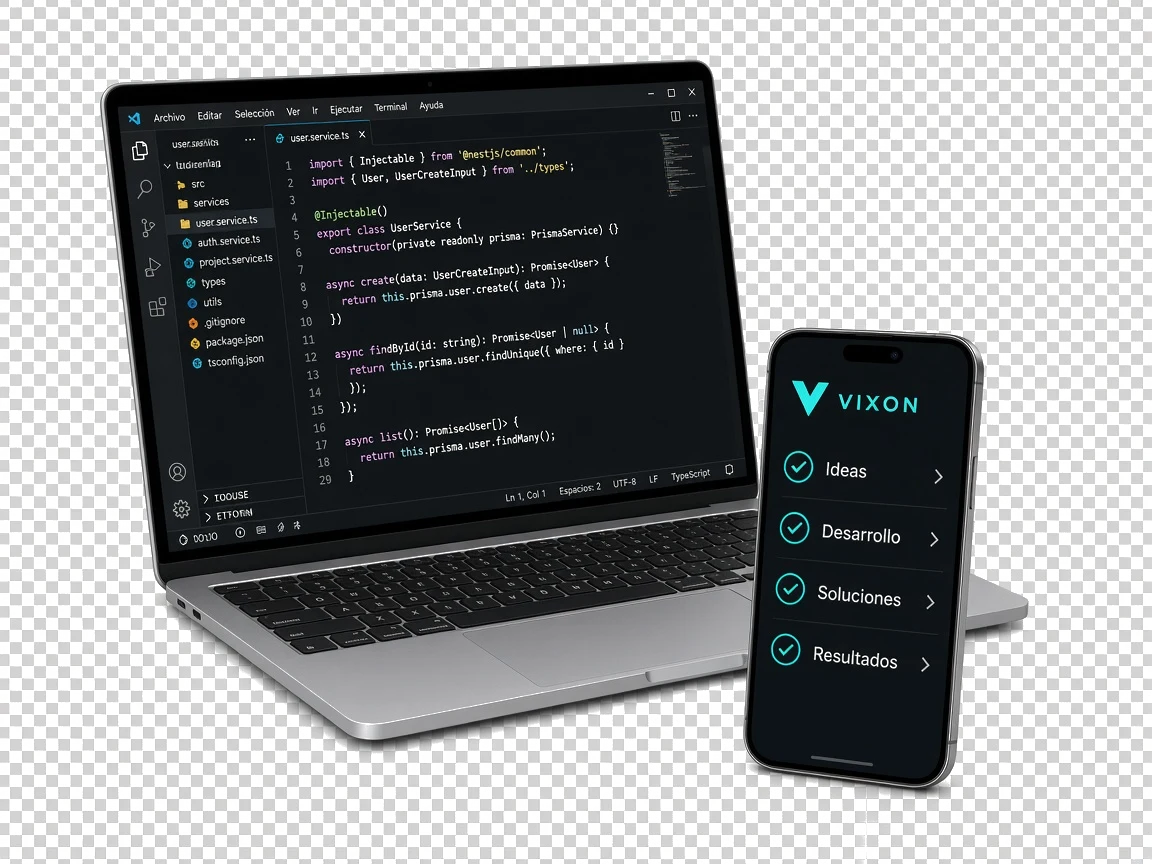
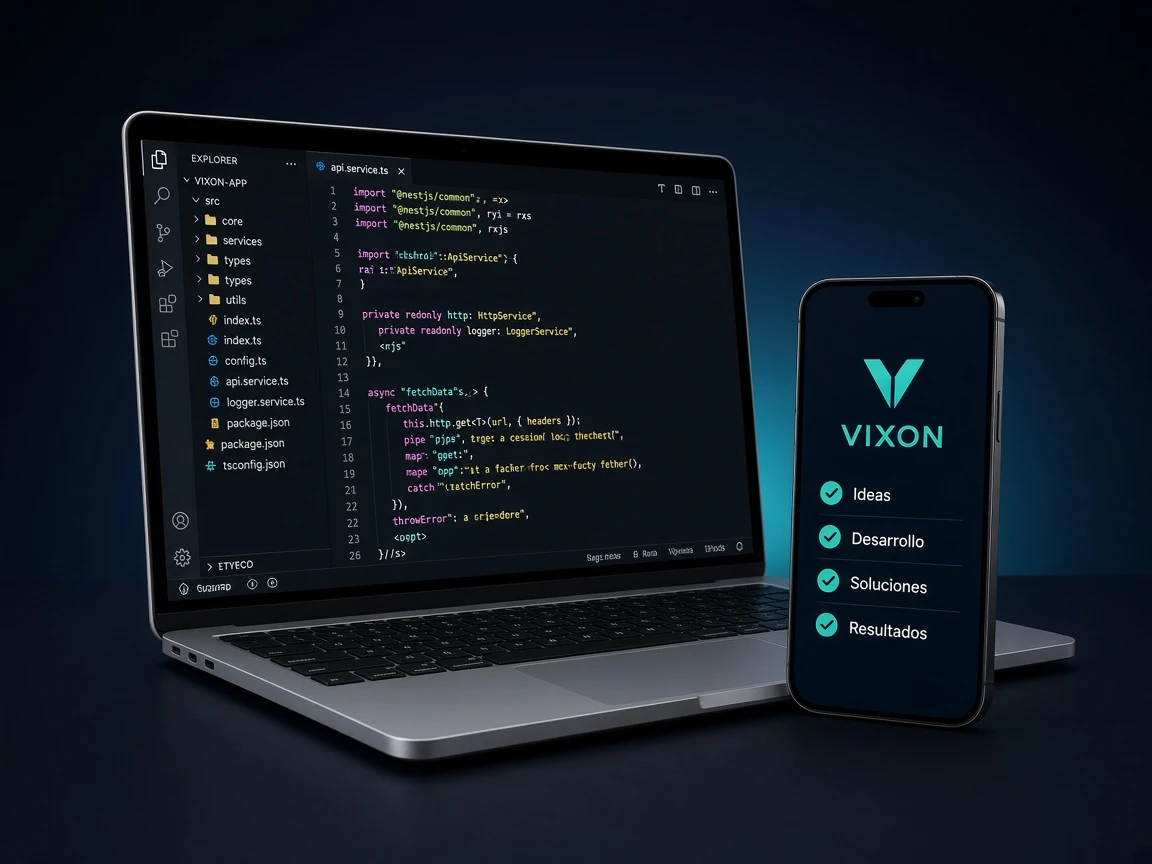
Match pillars visuals and layout to reference mock (ss2).

diff --git a/src/components/home/service-pillars.tsx b/src/components/home/service-pillars.tsx
@@ -16,6 +16,7 @@ import {
   Settings,
   ShieldCheck,
   Sparkles,
+  TrendingUp,
   Users,
 } from "lucide-react";
 import { Reveal } from "@/components/motion/reveal";
@@ -40,7 +41,8 @@ const iconMap = {
   pie: PieChart,
   cog: Settings,
 } as const satisfies Record<
-  (typeof softwarePillarItems)[number]["icon"] | (typeof marketingPillarItems)[number]["icon"],
+  | (typeof softwarePillarItems)[number]["icon"]
+  | (typeof marketingPillarItems)[number]["icon"],
   LucideIcon
 >;
 
@@ -48,36 +50,35 @@ export function ServicePillars() {
   return (
     <Section className="relative overflow-hidden">
       <div aria-hidden className="pointer-events-none absolute inset-0 -z-10">
-        <div className="absolute top-10 left-1/2 h-80 w-[46rem] -translate-x-1/2 rounded-full bg-brand/14 blur-[110px]" />
-        <div className="absolute right-[6%] bottom-16 h-64 w-64 rounded-full bg-brand/10 blur-[90px]" />
-        <div className="absolute bottom-32 left-[10%] h-52 w-52 rounded-full bg-brand/8 blur-[80px]" />
+        <div className="absolute top-8 left-1/2 h-72 w-[42rem] -translate-x-1/2 rounded-full bg-brand/12 blur-[110px]" />
+        <div className="absolute right-[8%] bottom-20 h-56 w-56 rounded-full bg-brand/10 blur-[90px]" />
       </div>
 
       <Container>
-        <div className="grid items-start gap-8 lg:grid-cols-[1.15fr_0.85fr] lg:gap-12">
+        <div className="grid items-end gap-8 lg:grid-cols-[minmax(0,1.2fr)_minmax(0,0.8fr)] lg:gap-14">
           <Reveal>
             <p className="inline-flex items-center gap-2 text-xs font-semibold tracking-[0.22em] text-brand uppercase">
-              <Sparkles className="size-3.5" aria-hidden />
+              <Sparkles className="size-3.5 fill-brand/30" aria-hidden />
               Nuestros pilares
             </p>
-            <h2 className="mt-4 max-w-xl text-3xl font-semibold tracking-tight text-balance md:text-4xl lg:text-[2.55rem] lg:leading-[1.15]">
+            <h2 className="mt-4 max-w-2xl text-3xl font-semibold tracking-tight text-balance md:text-4xl lg:text-[2.6rem] lg:leading-[1.12]">
               Dos áreas, un mismo objetivo:{" "}
               <span className="text-brand">tu crecimiento.</span>
             </h2>
           </Reveal>
 
-          <Reveal delay={80}>
-            <p className="border-l border-brand/45 pl-5 text-sm leading-relaxed text-muted-foreground md:pl-6 md:text-[0.95rem] lg:mt-10">
+          <Reveal delay={70}>
+            <p className="border-l-2 border-brand/50 pl-5 text-sm leading-relaxed text-foreground/80 md:text-[0.95rem]">
               Combinamos tecnología y marketing para ofrecer soluciones
               integrales que impulsan tu negocio{" "}
-              <span className="font-medium text-foreground">
+              <span className="font-semibold text-foreground">
                 desde la idea hasta los resultados.
               </span>
             </p>
           </Reveal>
         </div>
 
-        <div className="mt-12 grid gap-6 lg:mt-14 lg:grid-cols-2">
+        <div className="mt-12 grid gap-5 lg:mt-14 lg:grid-cols-2 lg:gap-6">
           <Reveal delay={40}>
             <PillarCard
               label="Tecnología & desarrollo"
@@ -95,7 +96,7 @@ export function ServicePillars() {
             />
           </Reveal>
 
-          <Reveal delay={120}>
+          <Reveal delay={110}>
             <PillarCard
               label="Marketing, growth & diseño"
               title={
@@ -139,41 +140,45 @@ function PillarCard({
   visual: ReactNode;
 }) {
   return (
-    <article className="group relative flex h-full flex-col overflow-hidden rounded-[1.75rem] bg-surface/75 p-6 shadow-[0_0_0_1px_rgb(0_163_173_/_0.18),0_28px_80px_-36px_rgb(0_163_173_/_0.45)] ring-1 ring-brand/25 backdrop-blur-md transition-transform duration-500 ease-out-expo hover:-translate-y-1 sm:p-8">
+    <article className="relative flex h-full flex-col overflow-hidden rounded-[1.6rem] bg-[#0c1422] p-6 ring-1 ring-brand/30 shadow-[0_0_60px_-28px_rgb(0_163_173_/_0.55)] sm:p-7 lg:p-8">
       <div
         aria-hidden
-        className="pointer-events-none absolute -top-24 -right-20 size-64 rounded-full bg-brand/16 blur-3xl"
+        className="pointer-events-none absolute inset-x-8 bottom-0 h-24 bg-linear-to-t from-brand/15 to-transparent"
+      />
+      <div
+        aria-hidden
+        className="pointer-events-none absolute -top-28 -right-16 size-72 rounded-full bg-brand/12 blur-3xl"
       />
 
-      <div className="relative grid flex-1 gap-8 xl:grid-cols-[1.05fr_0.95fr] xl:items-center">
+      <div className="relative grid flex-1 gap-6 lg:grid-cols-[minmax(0,1fr)_minmax(11rem,0.92fr)] lg:items-stretch lg:gap-4 xl:gap-6">
         <div className="flex min-w-0 flex-col">
-          <p className="text-[0.65rem] font-semibold tracking-[0.18em] text-brand uppercase whitespace-nowrap">
+          <p className="text-[0.62rem] font-semibold tracking-[0.2em] text-brand uppercase sm:text-[0.65rem]">
             {label}
           </p>
-          <h3 className="mt-3 text-2xl font-semibold tracking-tight text-balance md:text-[1.65rem] md:leading-snug">
+          <h3 className="mt-3 text-[1.35rem] font-semibold tracking-tight text-balance sm:text-2xl lg:text-[1.55rem] lg:leading-snug">
             {title}
           </h3>
-          <p className="mt-3 text-sm leading-relaxed text-muted-foreground">
+          <p className="mt-3 text-[0.85rem] leading-relaxed text-white/70">
             {description}
           </p>
 
-          <ul className="mt-6 space-y-3.5">
+          <ul className="mt-5 space-y-3">
             {items.map((item) => {
               const Icon = iconMap[item.icon];
               return (
-                <li key={item.title} className="flex gap-3">
-                  <span className="mt-0.5 flex size-10 shrink-0 items-center justify-center rounded-lg ring-1 ring-brand/40">
+                <li key={item.title} className="flex items-start gap-3">
+                  <span className="mt-0.5 flex size-9 shrink-0 items-center justify-center rounded-full border border-brand/55 text-brand sm:size-10">
                     <Icon
-                      className="size-5 text-brand"
-                      strokeWidth={1.6}
+                      className="size-[1.15rem] sm:size-5"
+                      strokeWidth={1.5}
                       aria-hidden
                     />
                   </span>
-                  <div className="min-w-0">
-                    <p className="text-sm font-semibold text-foreground">
+                  <div className="min-w-0 pt-0.5">
+                    <p className="text-[0.9rem] font-semibold text-foreground">
                       {item.title}
                     </p>
-                    <p className="mt-0.5 text-xs leading-relaxed text-muted-foreground">
+                    <p className="mt-0.5 text-[0.72rem] leading-snug text-white/55">
                       {item.detail}
                     </p>
                   </div>
@@ -182,7 +187,7 @@ function PillarCard({
             })}
           </ul>
 
-          <Button asChild className="mt-8 w-fit">
+          <Button asChild className="mt-7 w-fit">
             <Link href={href}>
               {cta}
               <ArrowRight />
@@ -190,7 +195,9 @@ function PillarCard({
           </Button>
         </div>
 
-        {visual}
+        <div className="relative min-h-[15rem] sm:min-h-[17rem] lg:min-h-0">
+          {visual}
+        </div>
       </div>
     </article>
   );
@@ -206,7 +213,7 @@ function GlassChip({
   return (
     <div
       className={cn(
-        "rounded-xl border border-brand/25 bg-[#0b1220]/75 px-2.5 py-1.5 shadow-[0_16px_36px_-22px_rgba(0,163,173,0.55)] backdrop-blur-md",
+        "rounded-lg border border-brand/40 bg-[#0a101c]/80 px-2.5 py-1.5 shadow-[0_12px_28px_-18px_rgb(0_163_173_/_0.7)] backdrop-blur-md",
         className,
       )}
     >
@@ -217,37 +224,29 @@ function GlassChip({
 
 function TechVisual() {
   return (
-    <div className="relative mx-auto h-[16.5rem] w-full max-w-[19rem] sm:h-[18rem] xl:mx-0 xl:max-w-none">
-      <div className="absolute inset-x-0 top-4 bottom-0">
+    <div className="absolute inset-0">
+      <div className="absolute inset-x-[-4%] top-[8%] bottom-[-2%]">
         <Image
           src="/home/pillar-tech-devices.webp"
           alt=""
           fill
-          sizes="(min-width: 1280px) 320px, 300px"
-          className="object-contain object-bottom drop-shadow-[0_24px_40px_rgba(0,0,0,0.45)]"
+          sizes="(min-width: 1024px) 280px, 340px"
+          className="object-contain object-bottom"
           aria-hidden
         />
       </div>
 
-      <GlassChip className="hero-float absolute top-0 left-0 flex items-center gap-1.5">
+      <GlassChip className="hero-float absolute top-[2%] left-[2%] z-10 flex items-center gap-1.5">
         <BarChart3 className="size-3.5 text-brand" aria-hidden />
-        <span className="text-[0.65rem] font-medium text-foreground">
-          Escalable
-        </span>
+        <span className="text-[0.62rem] font-medium text-white">Escalable</span>
       </GlassChip>
-
-      <GlassChip className="hero-float absolute top-10 right-0 flex items-center gap-1.5 [animation-delay:0.55s]">
+      <GlassChip className="hero-float absolute top-[14%] right-[0%] z-10 flex items-center gap-1.5 [animation-delay:0.5s]">
         <ShieldCheck className="size-3.5 text-brand" aria-hidden />
-        <span className="text-[0.65rem] font-medium text-foreground">
-          Seguro
-        </span>
+        <span className="text-[0.62rem] font-medium text-white">Seguro</span>
       </GlassChip>
-
-      <GlassChip className="hero-float absolute top-[5.25rem] left-1 flex items-center gap-1.5 [animation-delay:1.1s]">
+      <GlassChip className="hero-float absolute top-[28%] left-[6%] z-10 flex items-center gap-1.5 [animation-delay:1s]">
         <Code2 className="size-3.5 text-brand" aria-hidden />
-        <span className="text-[0.65rem] font-medium text-foreground">
-          A medida
-        </span>
+        <span className="text-[0.62rem] font-medium text-white">A medida</span>
       </GlassChip>
     </div>
   );
@@ -255,22 +254,25 @@ function TechVisual() {
 
 function MarketingVisual() {
   return (
-    <div className="relative mx-auto h-[16.5rem] w-full max-w-[14rem] sm:h-[18rem] xl:mx-0 xl:max-w-none">
-      <div className="absolute inset-x-2 top-6 bottom-0 sm:inset-x-4">
+    <div className="absolute inset-0">
+      <div className="absolute inset-x-[-2%] top-[4%] bottom-[-4%]">
         <Image
           src="/home/pillar-marketing-phone.webp"
           alt=""
           fill
-          sizes="(min-width: 1280px) 240px, 220px"
-          className="object-contain object-bottom drop-shadow-[0_24px_40px_rgba(0,0,0,0.45)]"
+          sizes="(min-width: 1024px) 260px, 320px"
+          className="object-contain object-bottom"
           aria-hidden
         />
       </div>
 
-      <GlassChip className="hero-float absolute top-0 right-0 max-w-[9.5rem] p-2.5">
-        <div className="flex items-start gap-2">
-          <BarChart3 className="mt-0.5 size-3.5 shrink-0 text-brand" aria-hidden />
-          <p className="text-[0.65rem] leading-snug font-medium text-foreground">
+      <GlassChip className="hero-float absolute top-[0%] right-[-2%] z-10 max-w-[9.25rem] p-2">
+        <div className="flex items-start gap-1.5">
+          <TrendingUp
+            className="mt-0.5 size-3.5 shrink-0 text-brand"
+            aria-hidden
+          />
+          <p className="text-[0.6rem] leading-snug font-medium text-white">
             Más alcance, Más clientes, Más ventas
           </p>
         </div>
